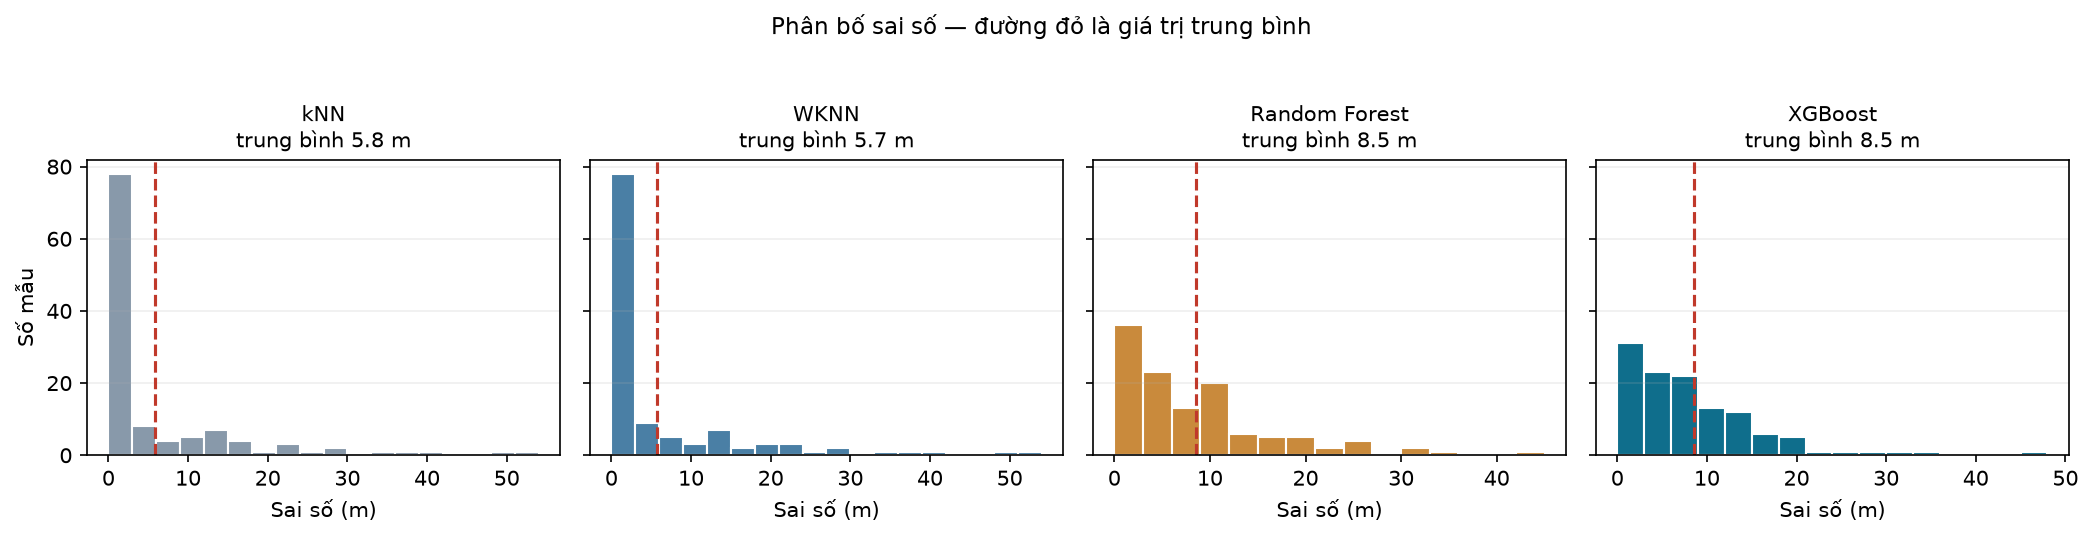
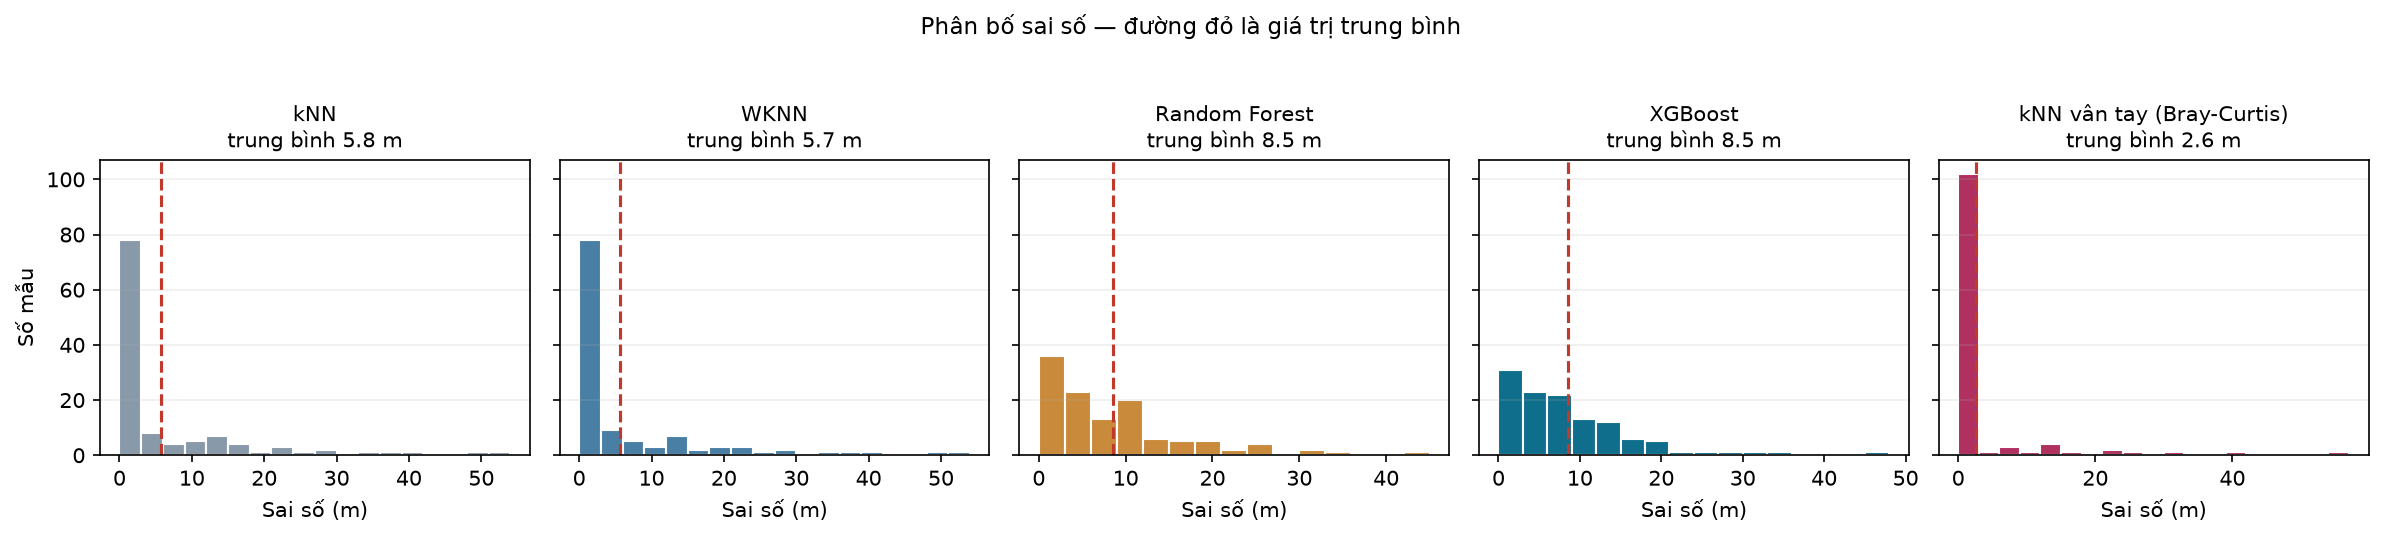
feat(models): thêm kNN vân tay dùng khoảng cách Bray-Curtis
Mô hình mới thiết kế riêng cho cấu trúc lượng tử hoá của bộ dữ liệu.
Xuất phát từ quan sát: 782 mẫu chỉ có 39 toạ độ khác nhau, nên bài toán
thực chất gần với phân lớp 39 điểm hơn là hồi quy liên tục. Mô hình chọn
điểm tham chiếu rồi trả về toạ độ điểm đó.

Kết quả trên tập test:

                          trung bình   CDF90   đúng khít   ms/mẫu
  kNN vân tay (mới)            2,557   8,900      86,4%     0,54
  WKNN (mốc cũ)                5,707  18,522      59,3%     2,83
  XGBoost                      8,544  17,491       0,0%     3,37

Giảm 55,2% sai số trung bình so với mốc cơ sở tốt nhất, vượt xa mục tiêu
10-20% đặt ra trong tài liệu thiết kế.

Hai lựa chọn kỹ thuật đem lại phần lớn cải thiện:

- Bray-Curtis thay Euclid. Là L1 chuẩn hoá theo tổng cường độ nên so
  sánh hình dạng vân tay thay vì độ mạnh tuyệt đối, bớt nhạy với khác
  biệt thiết bị và hướng cầm máy. Đo trên validation: đúng điểm 82,9% so
  với 70,1% của Euclid.

- Biểu diễn powed: nâng đặc trưng đã chuẩn hoá lên luỹ thừa beta, giãn
  khoảng cách giữa AP mạnh và nén phần AP yếu vốn chủ yếu là nhiễu. Phải
  cắt ngưỡng dưới ở 0 trước khi nâng luỹ thừa vì scaler fit trên train
  nên mẫu test có thể âm, mà số âm mũ 1,75 cho ra NaN.

Chọn tham số bằng 5-fold CV có lọc Hampel và fit scaler BÊN TRONG từng
fold. Cách làm này quan trọng: CV chạy thẳng trên dataset đã xử lý cho
kết quả lạc quan giả, vì hàng train đã lọc Hampel nên nằm sát tâm điểm
[…]

diff --git a/ml/models/fingerprint_knn.py b/ml/models/fingerprint_knn.py
@@ -1,0 +1,122 @@
+"""kNN vân tay dùng khoảng cách Bray-Curtis — mô hình tối ưu cho dữ liệu hiện có.
+
+Xuất phát từ một quan sát về chính bộ dữ liệu: 782 mẫu nhưng chỉ có 39 toạ độ
+khác nhau, vì dữ liệu được thu ĐÚNG TẠI các điểm tham chiếu chứ không có mẫu nào
+ở giữa. Nhãn (x, y) vì thế bị lượng tử hoá theo lưới khoảng 7 mét.
+
+Với cấu trúc đó, hồi quy liên tục làm việc thừa: nó cố đoán những toạ độ không
+hề tồn tại trong dữ liệu. Bài toán thực chất gần với phân lớp 39 điểm hơn. Mô
+hình này làm đúng thế — chọn điểm tham chiếu, rồi trả về toạ độ của điểm đó.
+
+Hai lựa chọn kỹ thuật đem lại phần lớn cải thiện:
+
+**Bray-Curtis thay cho Euclid.** Khoảng cách Bray-Curtis là L1 đã chuẩn hoá theo
+tổng cường độ: `sum|a-b| / sum(a+b)`. Nó so sánh *hình dạng* của vân tay chứ
+không so sánh độ mạnh tuyệt đối, nên bớt nhạy với việc cùng một vị trí nhưng
+thiết bị khác hoặc hướng cầm máy khác cho ra mức tín hiệu chung cao thấp khác
+nhau. Đo trên validation: đúng điểm 82,9% so với 70,1% của Euclid.
+
+**Biểu diễn powed.** Nâng giá trị đã chuẩn hoá lên luỹ thừa beta làm giãn khoảng
+cách giữa các AP mạnh và nén phần AP yếu. AP yếu chủ yếu là nhiễu, nên giảm ảnh
+hưởng của chúng giúp ích. Cách biểu diễn này lấy từ tài liệu về UJIIndoorLoc.
+
+Trọng số `1/d^power` với `top` lớp có xác suất cao nhất cho phép chuyển mượt giữa
+hai thái cực: `n_neighbors=1` là chọn cứng một điểm, `n_neighbors` lớn với
+`power` nhỏ là trung bình mềm nhiều điểm.
+"""
+
+from __future__ import annotations
+
+import numpy as np
+from sklearn.base import BaseEstimator, RegressorMixin
+from sklearn.neighbors import KNeighborsClassifier
+
+TEN = "kNN vân tay (Bray-Curtis)"
+
+LUOI_THAM_SO = {
+    "beta": [1.25, 1.5, 1.75, 2.0],
+    "n_neighbors": [1, 3, 5],
+    "power": [1, 4, 8],
+}
+
+LUOI_NHANH = {
+    "beta": [1.5, 1.75],
+    "n_neighbors": [1, 3],
+    "power": [1, 8],
+}
+
+
+def bieu_dien_powed(X: np.ndarray, beta: float) -> np.ndarray:
+    """Nâng đặc trưng đã chuẩn hoá lên luỹ thừa beta.
+
+    Phải cắt ngưỡng dưới ở 0 trước khi nâng luỹ thừa: scaler fit trên tập train
+    nên mẫu validation/test có thể mang giá trị âm (đo được thấp nhất -0,333), mà
+    số âm mũ 1,75 cho ra NaN. Cắt ở 0 nghĩa là "yếu hơn mọi mẫu từng thấy lúc
+    huấn luyện" — đúng ý nghĩa cần biểu đạt.
+    """
+    return np.clip(np.asarray(X, dtype=float), 0.0, None) ** beta
+
+
+class DinhViPhanLop(BaseEstimator, RegressorMixin):
+    """Phân lớp điểm tham chiếu rồi trả về toạ độ, nhưng vẫn nhận y hai cột.
+
+    Giữ nguyên giao diện `fit(X, y_2_cot)` như ba mô hình hồi quy còn lại, để
+    `ml/train.py` đối xử với mọi mô hình theo cùng một quy trình. Nhãn lớp được
+    suy ra từ chính các dòng toạ độ duy nhất trong y.
+    """
+
+    def __init__(
+        self,
+        beta: float = 1.75,
+        n_neighbors: int = 1,
+        power: float = 1.0,
+        top: int | None = None,
+        metric: str = "braycurtis",
+    ):
+        self.beta = beta
+        self.n_neighbors = n_neighbors
+        self.power = power
+        self.top = top
+        self.metric = metric
+
+    def _trong_so(self, khoang_cach):
+        return 1.0 / (np.asarray(khoang_cach, dtype=float) ** self.power + 1e-12)
+
+    def fit(self, X, y):
+        y = np.asarray(y, dtype=float)
+
+        # Mỗi toạ độ duy nhất thành một lớp
+        self.toa_do_, nhan = np.unique(y, axis=0, return_inverse=True)
+
+        self.clf_ = KNeighborsClassifier(
+            n_neighbors=min(self.n_neighbors, len(nhan)),
+            metric=self.metric,
+            weights="uniform" if self.n_neighbors == 1 else self._trong_so,
+        )
+        self.clf_.fit(bieu_dien_powed(X, self.beta), nhan)
+        return self
+
+    def predict(self, X):
+        xac_suat = self.clf_.predict_proba(bieu_dien_powed(X, self.beta))
+
+        if self.top:
+            xac_suat = xac_suat.copy()
+            nguong = np.sort(xac_suat, axis=1)[:, -self.top][:, None]
+            xac_suat[xac_suat < nguong] = 0.0
+            xac_suat /= xac_suat.sum(axis=1, keepdims=True)
+
+        # Lớp mà classifier biết, theo đúng thứ tự của predict_proba
+        return xac_suat @ self.toa_do_[self.clf_.classes_]
+
+    def du_doan_diem(self, X) -> np.ndarray:
+        """Chỉ số điểm tham chiếu được chọn — dùng để đo độ chính xác phân lớp."""
+        return self.clf_.predict(bieu_dien_powed(X, self.beta))
+
+
+def build(
+    beta: float = 1.75,
+    n_neighbors: int = 1,
+    power: float = 1.0,
+    top: int | None = None,
+) -> DinhViPhanLop:
+    return DinhViPhanLop(beta=beta, n_neighbors=n_neighbors, power=power, top=top)

diff --git a/ml/models/__init__.py b/ml/models/__init__.py
@@ -16,10 +16,12 @@ kNN, WKNN và Random Forest nhận thẳng y hai cột. XGBoost thì không, nê
 model_y đúng như thiết kế ở mục 2.4.
 """
 
-from ml.models import knn, random_forest, wknn, xgboost_model
+from ml.models import fingerprint_knn, knn, random_forest, wknn, xgboost_model
 
 # Thứ tự này là thứ tự chạy: hai mô hình cơ sở trước để có mốc đối chứng,
 # rồi mới tới các mô hình mạnh hơn.
-DANH_SACH = [knn, wknn, random_forest, xgboost_model]
+DANH_SACH = [knn, wknn, random_forest, xgboost_model, fingerprint_knn]
 
-__all__ = ["knn", "wknn", "random_forest", "xgboost_model", "DANH_SACH"]
+__all__ = [
+    "knn", "wknn", "random_forest", "xgboost_model", "fingerprint_knn", "DANH_SACH",
+]
